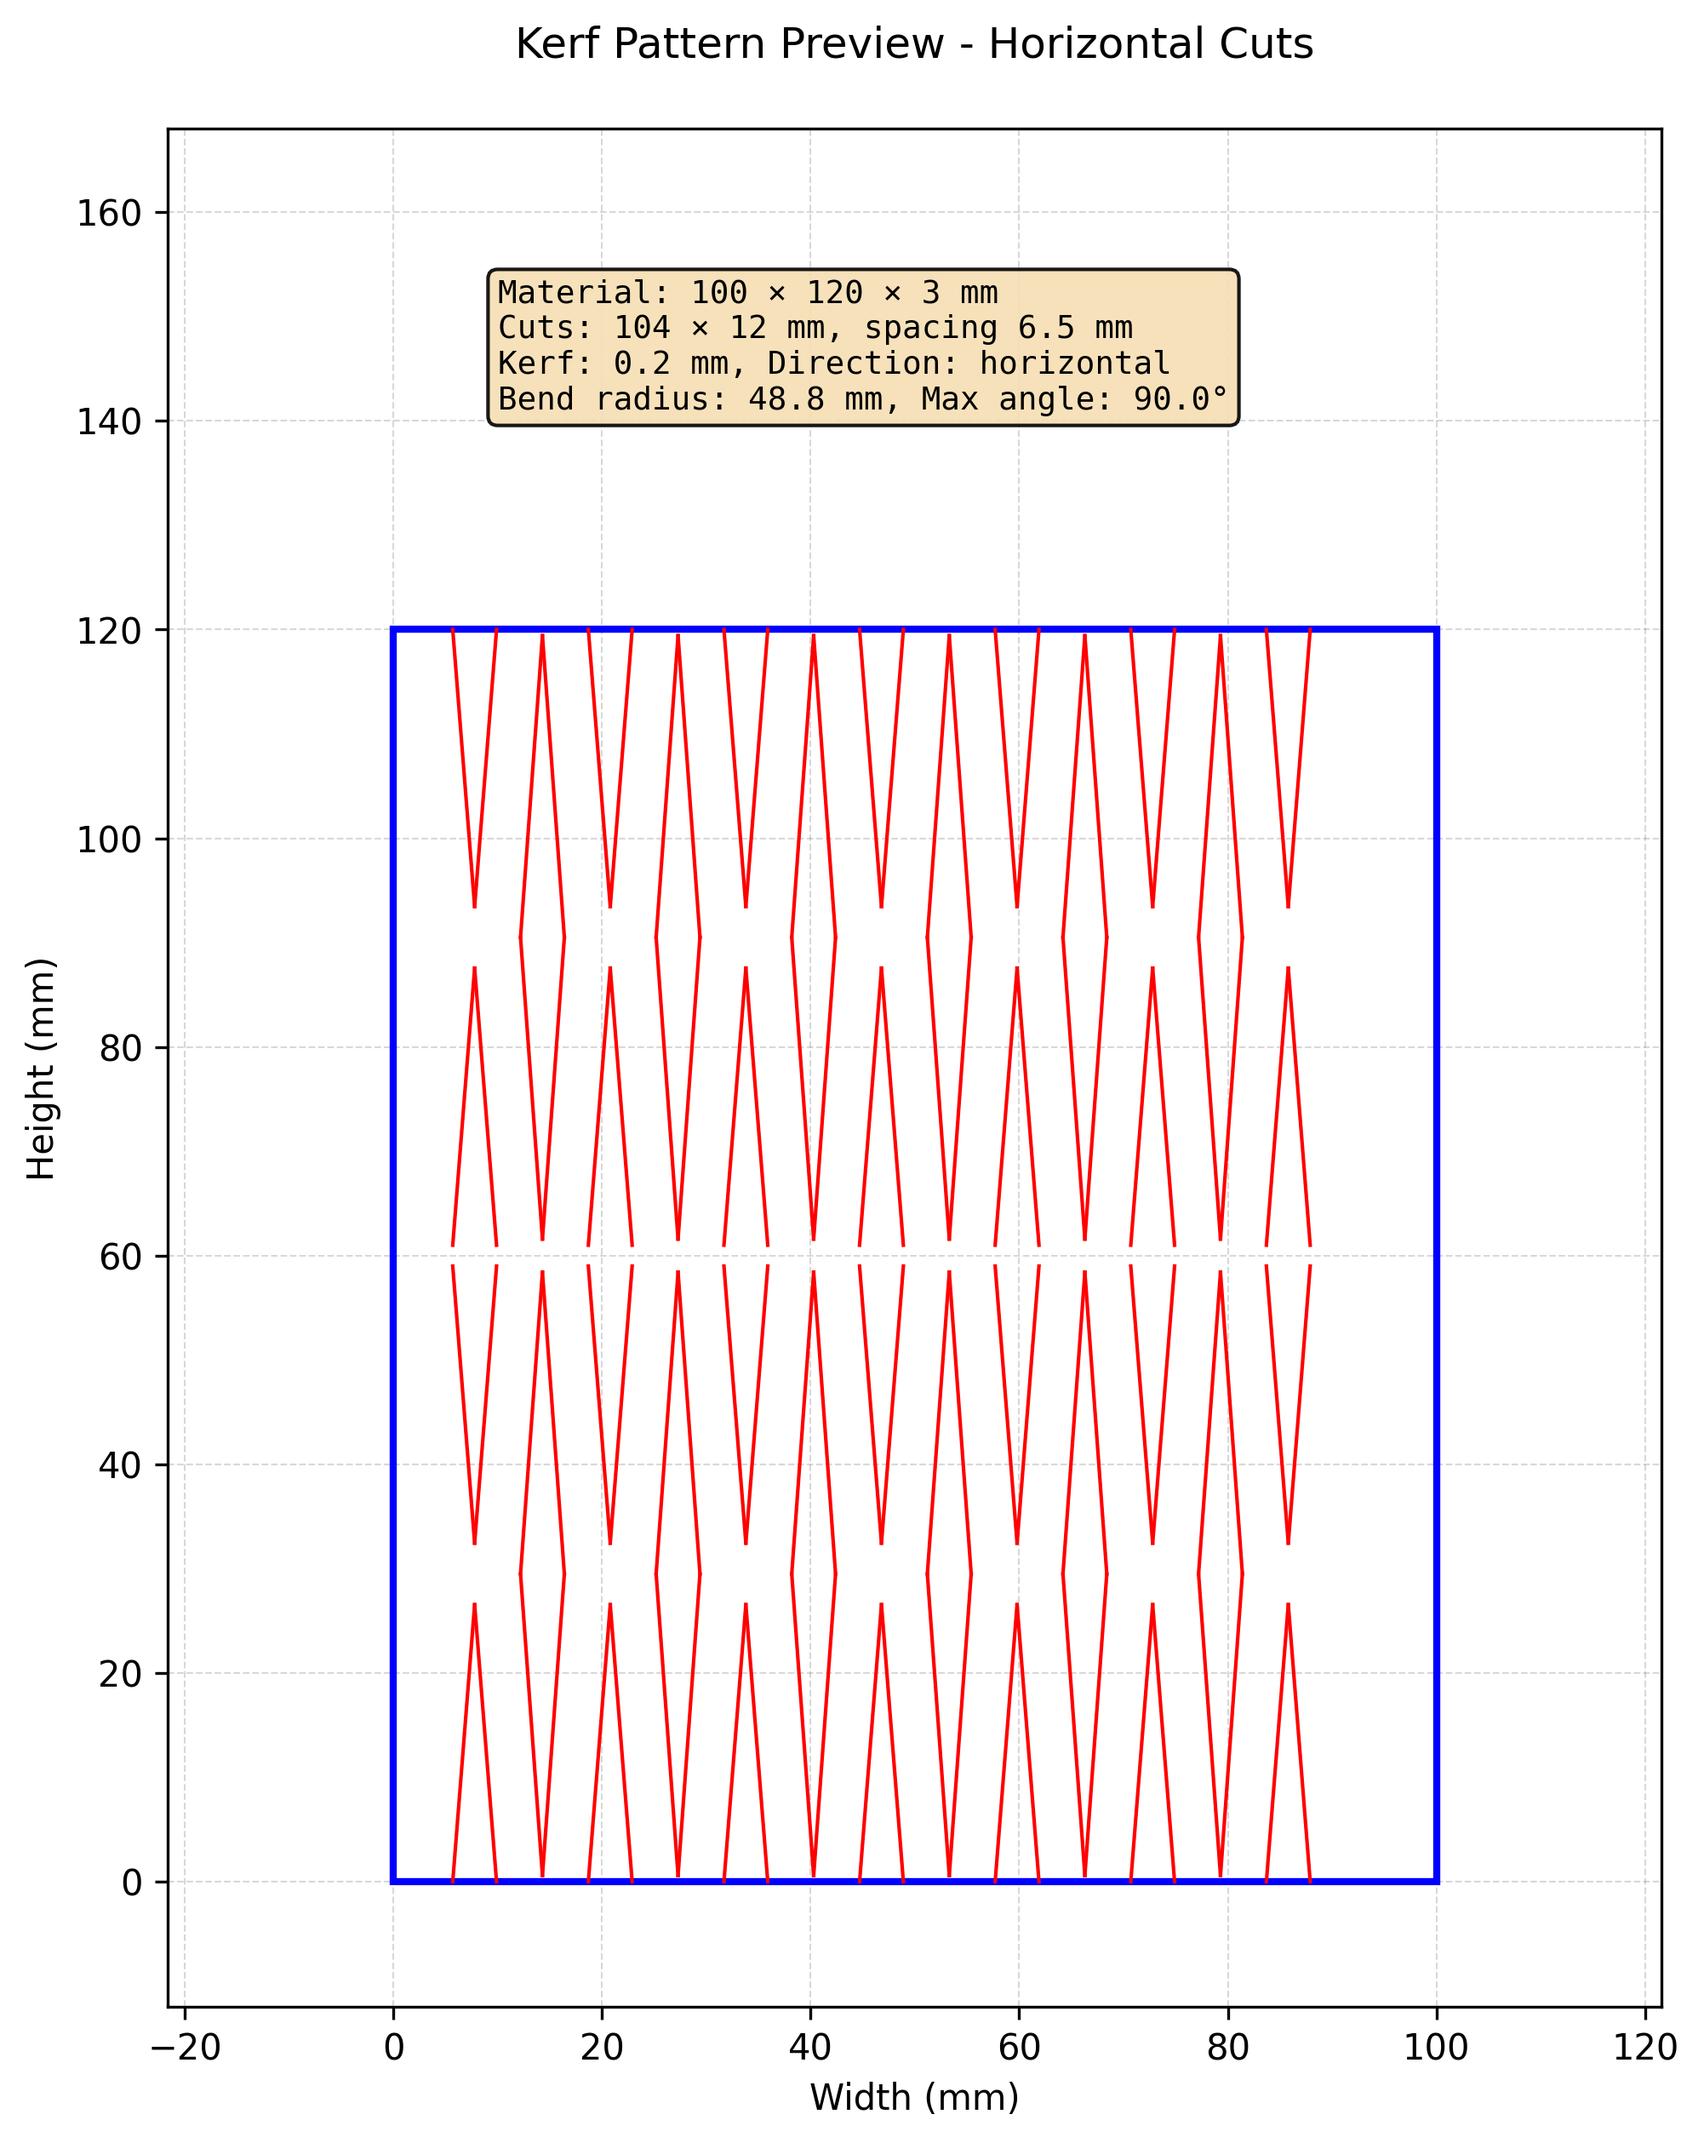
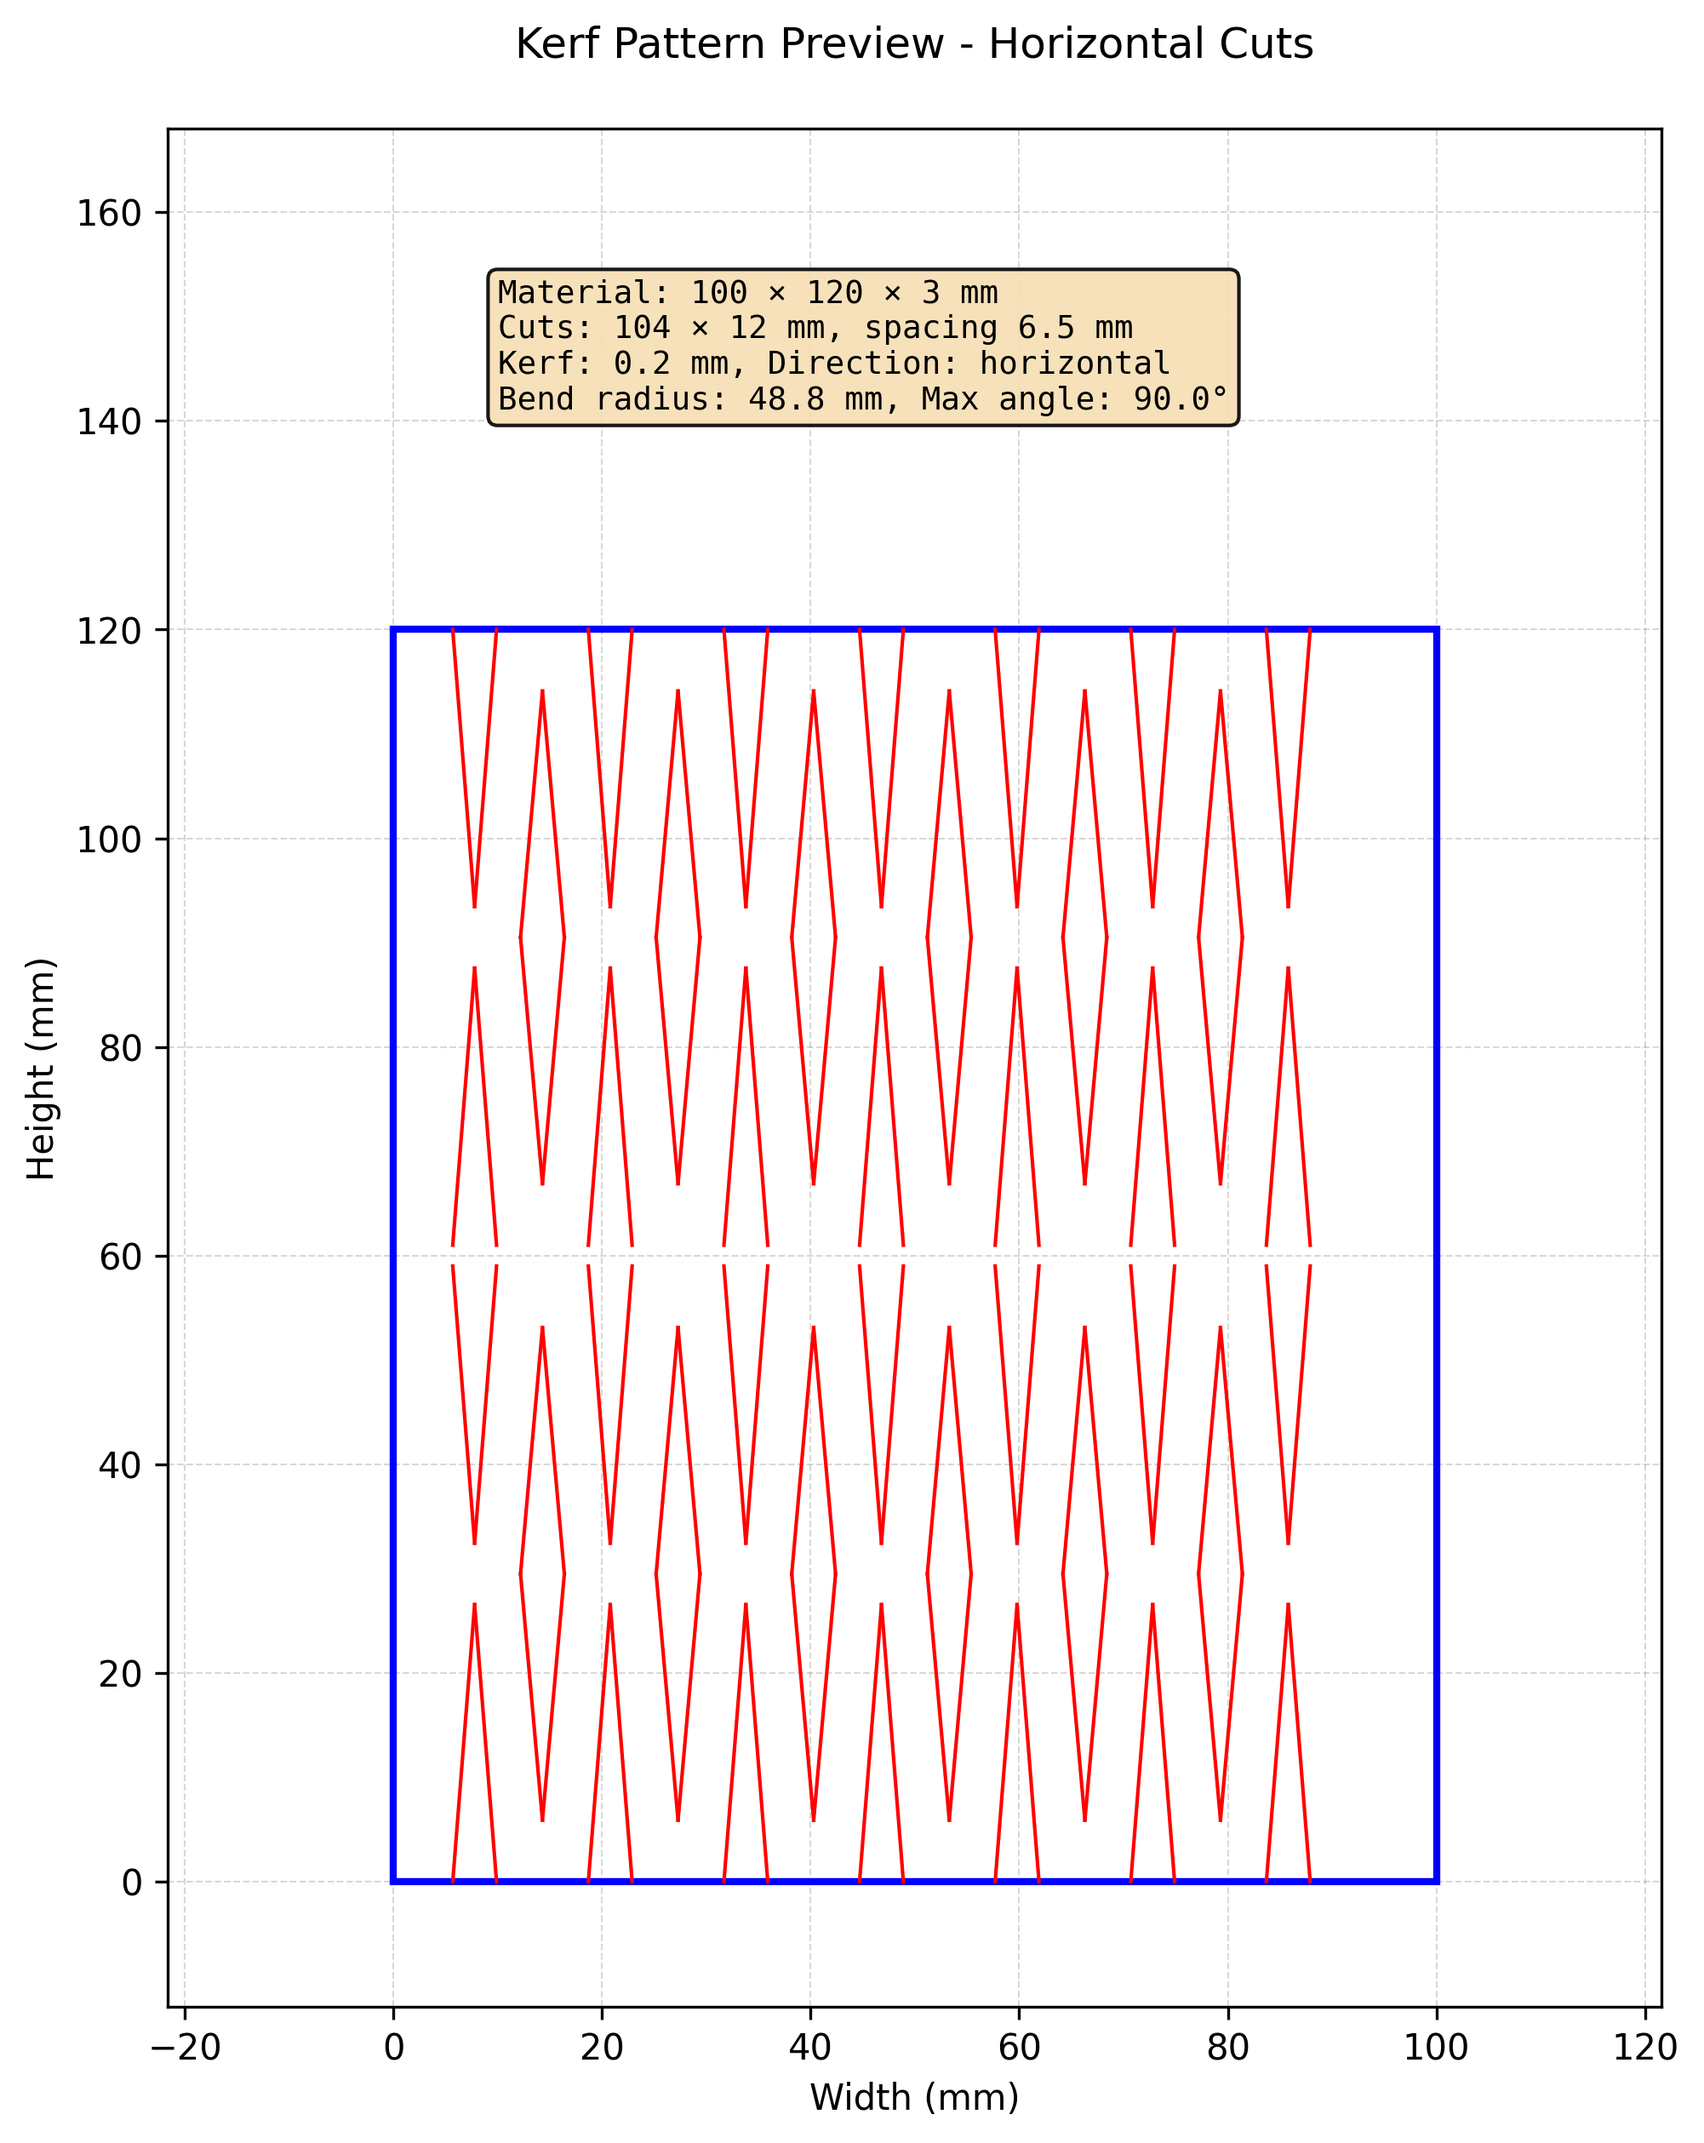
fix: increase full diamond/oval inset to 10% from edges
- Full diamonds now use 80% height (10% inset top/bottom) instead of 98%
- Full ovals now use 80% height (10% inset top/bottom) instead of 70%
- Provides better clearance from material edges for cleaner cuts
- Regenerated all documentation images with new geometry
- Added regenerate_docs_images.py script for future image updates

diff --git a/regenerate_docs_images.py b/regenerate_docs_images.py
@@ -1,0 +1,133 @@
+#!/usr/bin/env python3
+"""
+Regenerate all documentation images in docs/images/
+"""
+from kerf_generator import KerfParameters, generate_living_hinge
+
+# Ensure output directory exists
+import os
+os.makedirs("docs/images", exist_ok=True)
+
+print("Regenerating documentation images...")
+
+# 1. Diamond Pattern - Single Row (100mm x 140mm)
+print("\n1. Generating diamond_single_row...")
+params = KerfParameters(
+    material_width=100,
+    material_height=140,
+    material_thickness=3,
+    kerf_width=0.2,
+    cut_spacing=6.5,
+    cut_length=12,
+    cut_offset=8,
+    pattern_type='diamond',
+    num_vertical_rows=1
+)
+generate_living_hinge(
+    params,
+    dxf_output="docs/images/diamond_single_row.dxf",
+    image_output="docs/images/diamond_single_row.png"
+)
+print(f"   Dimensions: {params.material_width}mm x {params.material_height}mm")
+
+# 2. Tall Diamond - Auto Stacking (100mm x 320mm)
+print("\n2. Generating tall_diamond_auto...")
+params = KerfParameters(
+    material_width=100,
+    material_height=320,
+    material_thickness=3,
+    kerf_width=0.2,
+    cut_spacing=6.5,
+    cut_length=12,
+    cut_offset=8,
+    pattern_type='diamond',
+    num_vertical_rows=None  # Auto-calculate
+)
+generate_living_hinge(
+    params,
+    dxf_output="docs/images/tall_diamond_auto.dxf",
+    image_output="docs/images/tall_diamond_auto.png"
+)
+print(f"   Dimensions: {params.material_width}mm x {params.material_height}mm (auto: {params.effective_num_rows} rows)")
+
+# 3. Short Material - 2 Rows Override (100mm x 120mm)
+print("\n3. Generating short_material_2rows_override...")
+params = KerfParameters(
+    material_width=100,
+    material_height=120,
+    material_thickness=3,
+    kerf_width=0.2,
+    cut_spacing=6.5,
+    cut_length=12,
+    cut_offset=8,
+    pattern_type='diamond',
+    num_vertical_rows=2  # Manual override
+)
+generate_living_hinge(
+    params,
+    dxf_output="docs/images/short_material_2rows_override.dxf",
+    image_output="docs/images/short_material_2rows_override.png"
+)
+print(f"   Dimensions: {params.material_width}mm x {params.material_height}mm (manual: {params.effective_num_rows} rows)")
+
+# 4. Oval Pattern - Single Row (100mm x 140mm)
+print("\n4. Generating oval_single_row...")
+params = KerfParameters(
+    material_width=100,
+    material_height=140,
+    material_thickness=3,
+    kerf_width=0.2,
+    cut_spacing=6.5,
+    cut_length=12,
+    cut_offset=8,
+    pattern_type='oval',
+    num_vertical_rows=1
+)
+generate_living_hinge(
+    params,
+    dxf_output="docs/images/oval_single_row.dxf",
+    image_output="docs/images/oval_single_row.png"
+)
+print(f"   Dimensions: {params.material_width}mm x {params.material_height}mm")
+
+# 5. Tall Oval - Auto Stacking (100mm x 320mm)
+print("\n5. Generating tall_oval_auto...")
+params = KerfParameters(
+    material_width=100,
+    material_height=320,
+    material_thickness=3,
+    kerf_width=0.2,
+    cut_spacing=6.5,
+    cut_length=12,
+    cut_offset=8,
+    pattern_type='oval',
+    num_vertical_rows=None  # Auto-calculate
+)
+generate_living_hinge(
+    params,
+    dxf_output="docs/images/tall_oval_auto.dxf",
+    image_output="docs/images/tall_oval_auto.png"
+)
+print(f"   Dimensions: {params.material_width}mm x {params.material_height}mm (auto: {params.effective_num_rows} rows)")
+
+# 6. Short Material Oval - 2 Rows Override (100mm x 120mm)
+print("\n6. Generating short_material_2rows_oval_override...")
+params = KerfParameters(
+    material_width=100,
+    material_height=120,
+    material_thickness=3,
+    kerf_width=0.2,
+    cut_spacing=6.5,
+    cut_length=12,
+    cut_offset=8,
+    pattern_type='oval',
+    num_vertical_rows=2  # Manual override
+)
+generate_living_hinge(
+    params,
+    dxf_output="docs/images/short_material_2rows_oval_override.dxf",
+    image_output="docs/images/short_material_2rows_oval_override.png"
+)
+print(f"   Dimensions: {params.material_width}mm x {params.material_height}mm (manual: {params.effective_num_rows} rows)")
+
+print("\n✅ All documentation images regenerated!")

diff --git a/src/kerf_generator/patterns.py b/src/kerf_generator/patterns.py
@@ -241,9 +241,9 @@ def _generate_diamond_pattern(params: KerfParameters) -> List[LineSegment]:
             actual_row_height = row_height
 
         # Calculate diamond heights for this row
-        # Full diamonds: almost no inset from top/bottom of row (~1%)
-        full_diamond_height = actual_row_height * 0.98
-        full_diamond_inset = actual_row_height * 0.01
+        # Full diamonds: 10% inset from top/bottom edges for clearance
+        full_diamond_height = actual_row_height * 0.80  # 80% height (10% inset each side)
+        full_diamond_inset = actual_row_height * 0.10  # 10% inset from edges
 
         # Split diamonds: extend to actual row edges
         # Very narrow gap in middle (10%) for tight pattern
@@ -477,9 +477,9 @@ def _generate_oval_pattern(params: KerfParameters) -> List[LineSegment]:
             actual_row_height = row_height
 
         # Calculate oval heights for this row
-        # Full ovals: shorter than diamonds, more inset from top/bottom
-        full_oval_height = actual_row_height * 0.70  # 70% of row height
-        full_oval_inset = (actual_row_height - full_oval_height) / 2  # Center vertically
+        # Full ovals: 10% inset from top/bottom edges for clearance
+        full_oval_height = actual_row_height * 0.80  # 80% height (10% inset each side)
+        full_oval_inset = actual_row_height * 0.10  # 10% inset from edges
 
         # Split ovals: extend to actual row edges to connect with top/bottom outline
         split_total_height = actual_row_height
